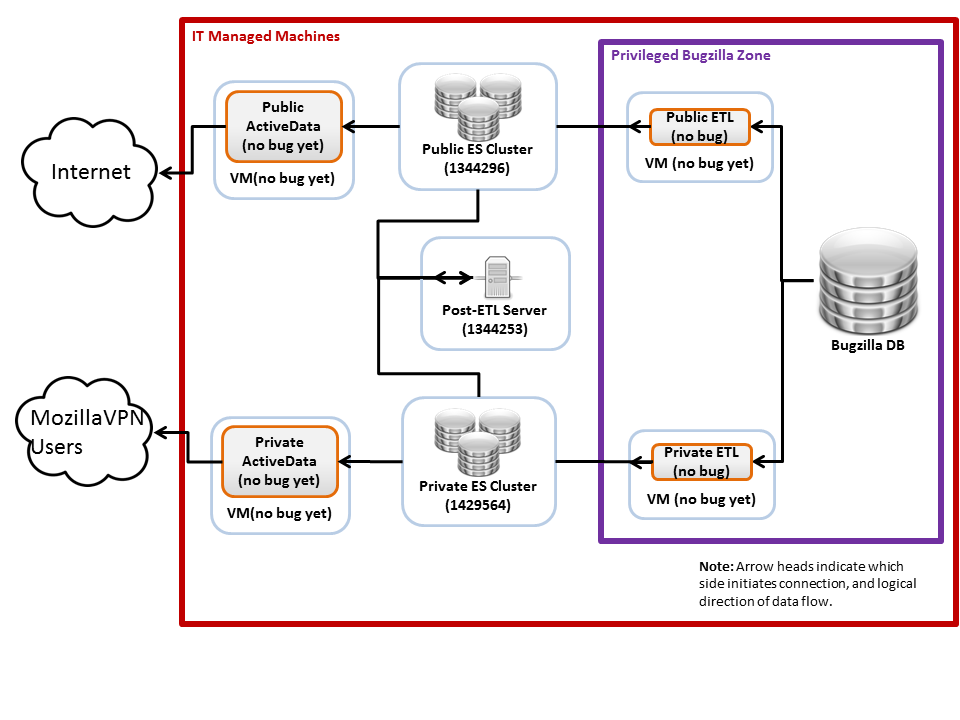
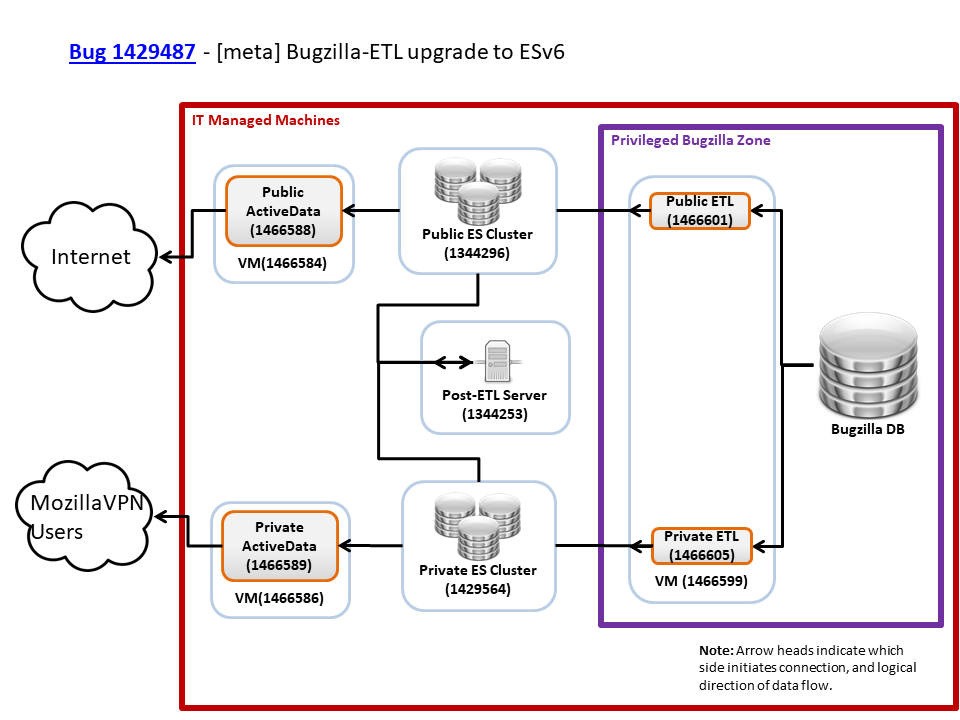
fix test, update docs with bug numbers

diff --git a/tests/test_etl.py b/tests/test_etl.py
@@ -237,8 +237,6 @@ class TestETL(unittest.TestCase):
 
         database.make_test_instance(self.settings.bugzilla)
 
-        es = fake_elasticsearch.make_test_instance("candidate", self.settings.public.bugs)
-        es_c = fake_elasticsearch.make_test_instance("candidate_comments", self.settings.public.comments)
         bz_etl.main(
             es=self.settings.public.bugs,
             es_comments=self.settings.public.comments,
@@ -284,7 +282,8 @@ class TestETL(unittest.TestCase):
             kwargs=self.settings
         )
 
-
+        es = real_elasticsearch.Index(self.settings.private.bugs)
+        es_c = real_elasticsearch.Index(self.settings.private.comments)
         refresh_metadata(es)
         verify_no_private_bugs(es, private_bugs)
         verify_no_private_attachments(es, private_attachments)
@@ -618,7 +617,7 @@ def verify_no_private_bugs(es, private_bugs):
         versions = compare_es.get_all_bug_versions(es, b)
 
         if versions:
-            Log.error("Expecting no version for private bug {{bug_id}}", bug_id)
+            Log.error("Expecting no version for private bug {{bug_id}}", b)
 
 
 def verify_public_bugs(es, private_bugs):

diff --git a/bzETL/bz_etl.py b/bzETL/bz_etl.py
@@ -214,7 +214,8 @@ def incremental_etl(param, db, esq, esq_comments, output_queue, kwargs):
         refresh_param.start_time_str = extract_bugzilla.milli2string(db, MIN_TIMESTAMP)
 
         try:
-            etl(db, output_queue, refresh_param.copy(), kwargs.alias, please_stop=None)
+            analyzer = AliasAnalyzer(kwargs.alias)
+            etl(db, output_queue, refresh_param.copy(), analyzer, please_stop=None)
             etl_comments(db, esq_comments, refresh_param.copy(), please_stop=None)
         except Exception as e:
             Log.error(
